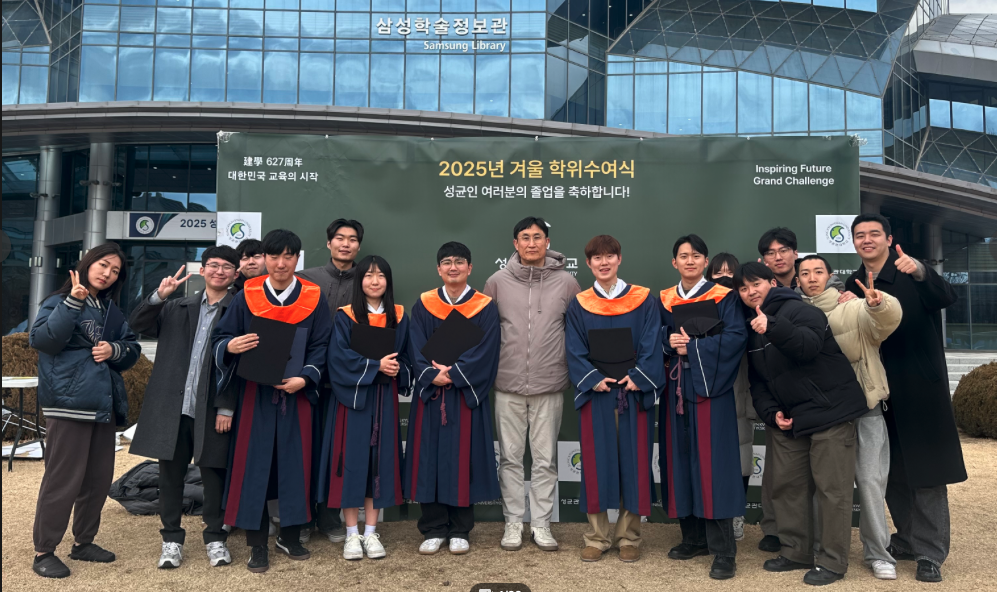
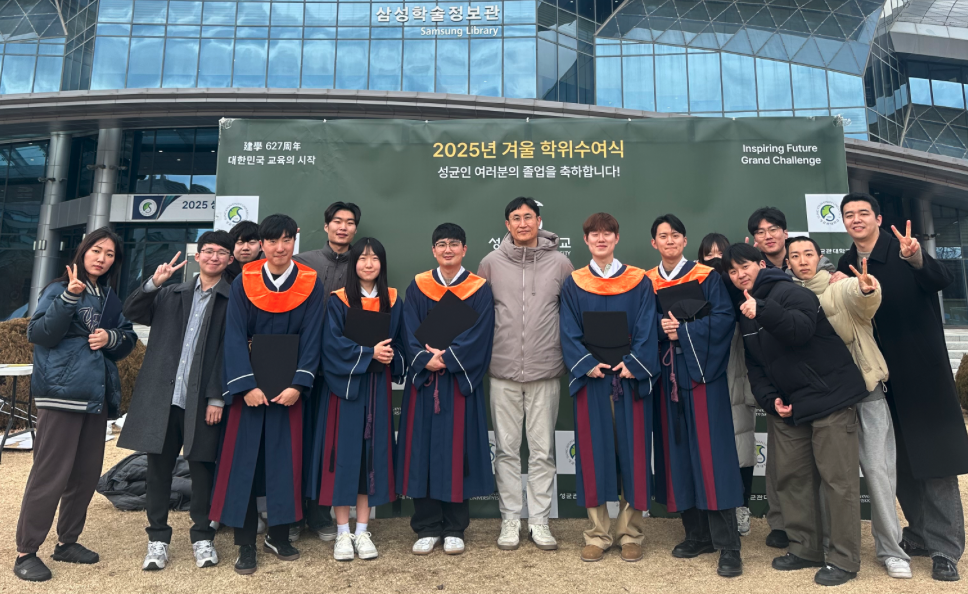
mib

diff --git a/index.html b/index.html
@@ -15,7 +15,8 @@ title: NLPLAB
 
 
 <div class="slider">
-  <div><img class = "center" src="assets/img/graduation_2025_fabruary.png" max-width="150%" height="auto" title = "25년 2월 졸업식 "/></div>
+  <div><img class = "center" src="assets/img/graduation_2025_fabruary.png" max-width="150%" height="auto" title = "25년 2월: 지열, 현묵, 하은, 수영, 승민, 윤진, 근하 선배 졸업 "/></div>
+  <div><img class = "center" src="assets/img/graduation_2025_fabruary_v2.png" max-width="150%" height="auto" title = "25년 2월: 지열, 현묵, 하은, 수영, 승민, 윤진, 근하 선배 졸업 "/></div>
   <div><img class = "center" src="assets/img/2024_ksc.png" max-width="150%" height="auto" title = "24년 12월:여수 KSC 학회 참석 "/></div>
   <div><img class = "center" src="assets/img/emnlp.jpg" max-width="150%" height="auto" title = "24년 10월:Miami EMNLP 학회 참석 "/></div>
   <div><img class = "center" src="assets/img/main-1.jpg" max-width="150%" height="auto" title = "24년 8월:진영 선배 졸업"/></div>
